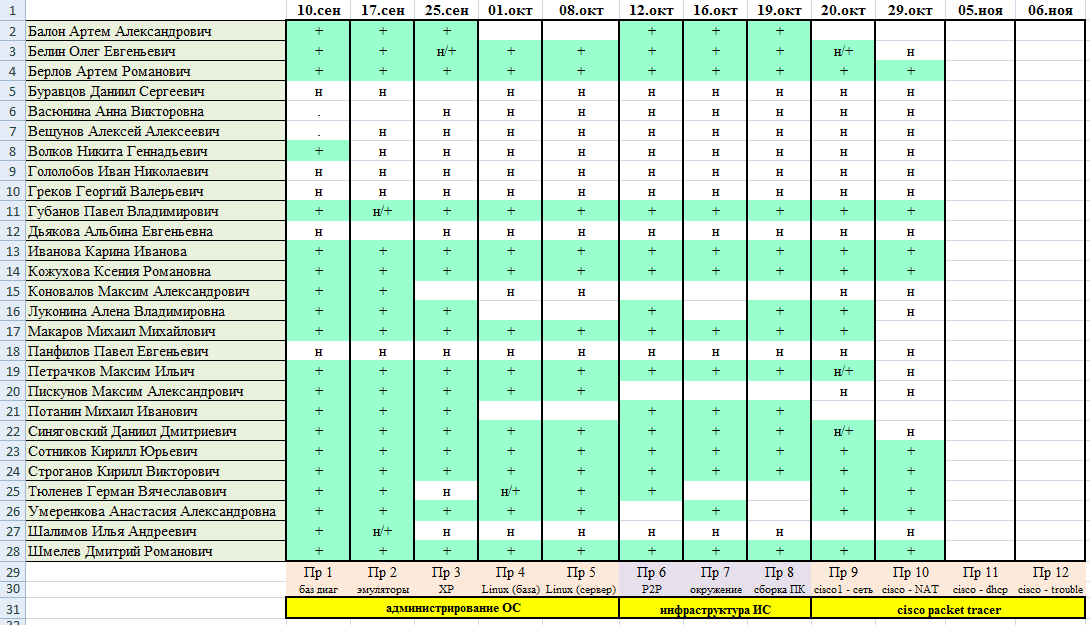
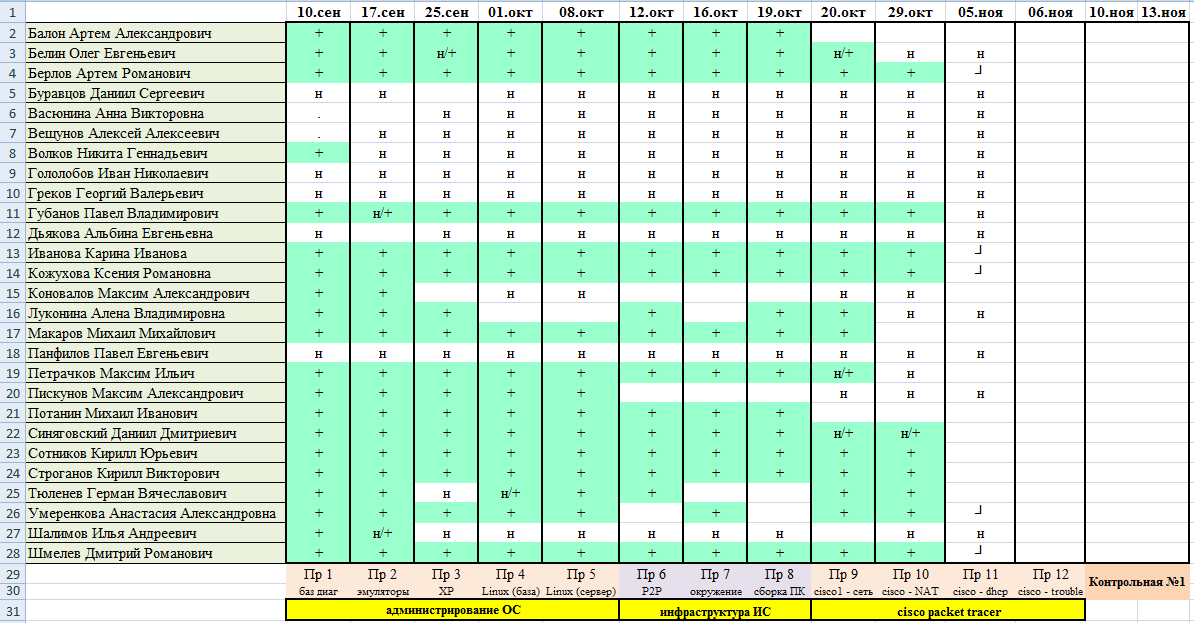
3.10.6

diff --git a/4isosp.html b/4isosp.html
@@ -55,7 +55,7 @@
   <h1 style="color: #900020;">ПРАКТИКИ</h1>
 </div>
 <div class="scroll-table">
-<div class="scroll-table-body" style="height: 700px">
+<div class="scroll-table-body" style="height: 1000px">
 <table>
 <tr><td><a href="АИС/практики/АИС Практика 1.docx" >1 Базовая диагностика операционной системы</a></td>
 <td><a href="АИС/практики/АИС Практика 1.pptx" >Теоретический материал</a></td></tr>
@@ -90,6 +90,8 @@
 <tr><td><a href="АИС/практики/АИС Практика 11.docx" >11 Администрирование IP сети в Cisco</a></td>
 <td><a href="АИС/практики/АИС Практика 11.pptx" >Теоретический материал</a></td></tr>
 
+<tr><td><a href="АИС/практики/АИС Практика 12.docx" >12 Troubleshooting в Cisco</a></td>
+<td><a href="АИС/практики/АИС Практика 12.pptx" >Теоретический материал</a></td></tr>
 </table>
 </div>
 </div>
